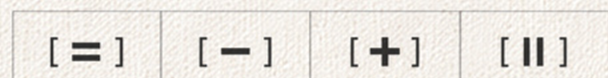
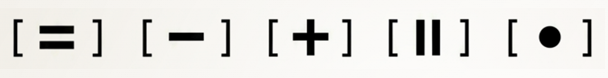
Update hero matrix image

diff --git a/src/app/aequalis/AequalisLanding.tsx b/src/app/aequalis/AequalisLanding.tsx
@@ -9,6 +9,8 @@ import {
 import styles from "./page.module.css";
 
 const navItems = ["about", "collections", "collaborations", "journal", "shop"];
+const heroMatrixImageUrl =
+  "https://tqdkpyuavxnhuvuinivh.supabase.co/storage/v1/object/public/aequalis_images/hero-matrix-20260519.png";
 
 const matrixSymbols = [
   { mark: "=", title: "Essential Equality" },
@@ -125,7 +127,7 @@ export default function AequalisLanding({
               aria-label="matrix symbol system"
             >
               <img
-                src="/images/aequalis/hero-matrix.png"
+                src={heroMatrixImageUrl}
                 alt="Essential Equality, Sacred Reduction, Grace Addition, Parallel Existence, Singular Origin"
                 width={608}
                 height={78}